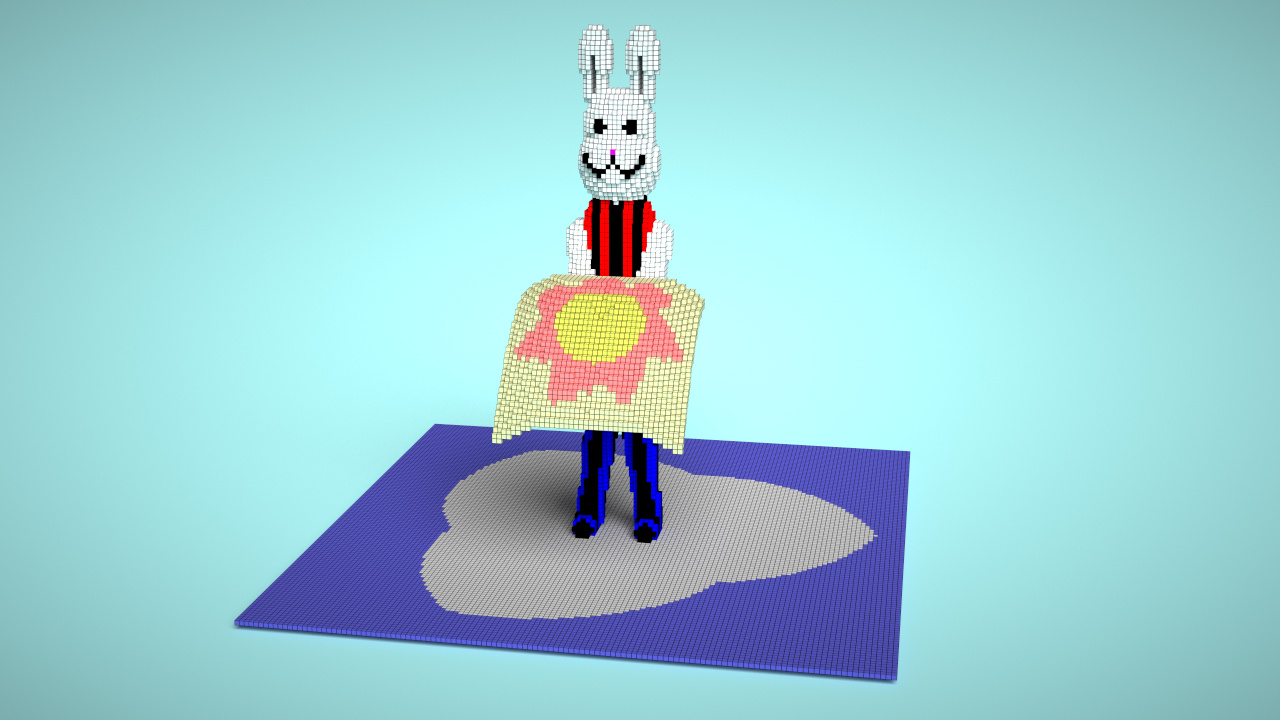
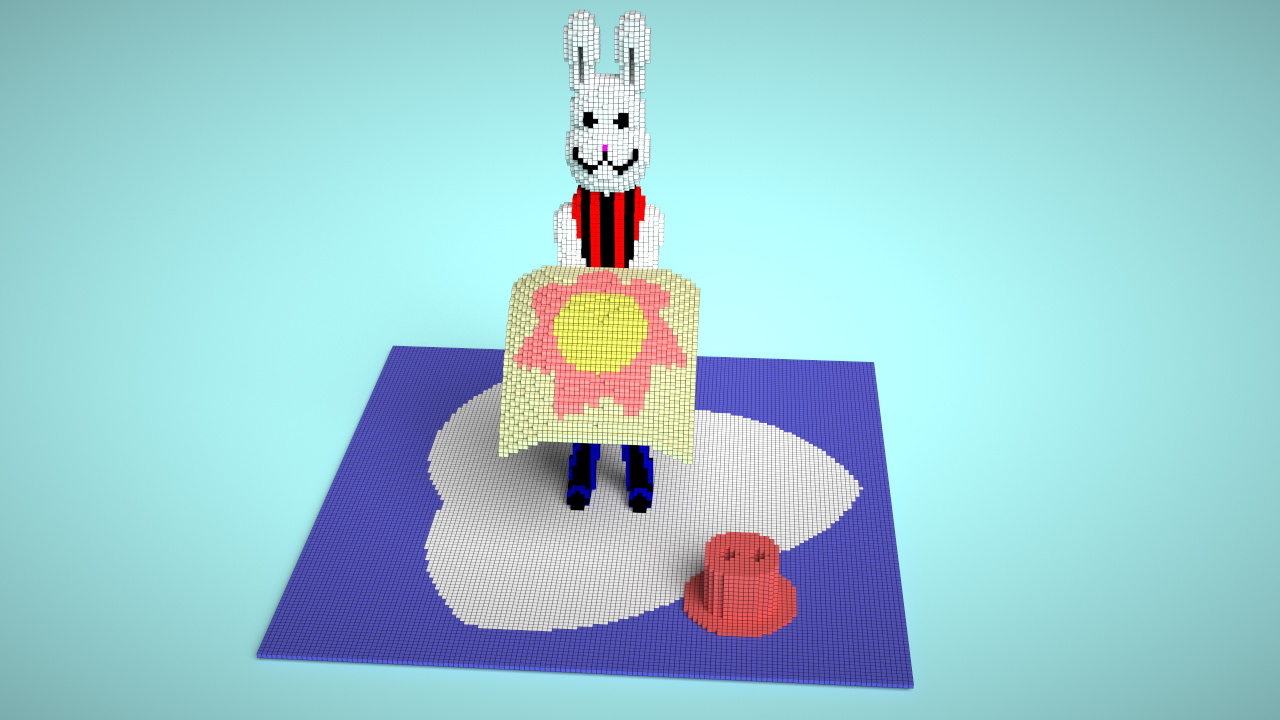
[ADD] add a hat with lovely hole
add a hat

Changed region(s): [[0.1875, 0.0, 0.7188, 0.9778]]

diff --git a/main.py b/main.py
@@ -16,29 +16,24 @@ def sdf_ellipsoid(p, r ):
     return ret 
 @ti.func
 def sdf_line(p, a, b, r ):
-    pa = p-a
-    ba = b-a
-    h = clamp( dot(pa,ba)/dot(ba,ba), 0.0, 1.0 )
-    return ( pa - ba*h ).norm()-r
-@ti.func
-def op_union(d1,d2):
-    return min(d1,d2)
+    h = clamp( dot(p-a,b-a)/dot(b-a,b-a), 0.0, 1.0 )
+    return ( p-a - (b-a)*h ).norm()-r
 @ti.func
 def op_minus(d1,d2):
     return max(d1,-d2)
 @ti.func
-def flower( uv, size, rpetals, npetals):
-    uv = vec2(ti.atan2(uv.x, uv.y), (uv).norm())        
-    uv.x +=  uv.y
-    m = (fract(uv.x / 3.1415926 / 2. * npetals) - 0.5) * rpetals
-    m = min(m, -m)
-    return  ti.math.smoothstep(size, size-0.01, uv.y + m)
+def sdf_cylinder(  p,  h,  r ):
+    d = abs(vec2(ti.sqrt(p.x*p.x+p.z*p.z),p.y)) - vec2(h,r)
+    return min(max(d.x,d.y),0.0) + max(d,0.0).norm()
+@ti.func
+def sd_flower( uv, size, rpetals, npetals):
+    uv = vec2(ti.atan2(uv.x, uv.y), uv.norm())        
+    m = (fract((uv.x+ uv.y) / 3.1415926 / 2. * npetals) - 0.5) * rpetals
+    return  ti.math.smoothstep(size, size-0.01, uv.y + min(m, -m))
 @ti.func
 def carpet(p, offset_x, offset_y, offset_z):
     t = abs(0.025* (p.x - offset_x)*(p.x - offset_x)+ 0.025 * (p.z - offset_z)*(p.z - offset_z)-offset_y+p.y)
-    if t > 1.0:
-        t = 10.0
-    else:
+    if t < 1.0:
         t = 0.0
     return t
 @ti.func
@@ -47,46 +42,52 @@ def sdf_rabit(p):
     d1 = sdf_ellipsoid(vec3(abs(p.x),p.y,p.z)-vec3(5,55,0), vec3(3,6,3))
     d2 = sdf_ellipsoid(vec3(abs(p.x),p.y,p.z)-vec3(5,49,0), vec3(2,5,2)) 
     d3 = sdf_ellipsoid(vec3(abs(p.x),p.y,p.z)-vec3(5,52,1), vec3(1,10,6)) 
-    d  = op_minus(op_union(d1,d2),d3)
+    d  = op_minus(min(d1,d2),d3)
     d1 = sdf_ellipsoid(vec3(abs(p.x),p.y,p.z)-vec3(3,41,3.5), vec3(2,2,2))
     if d1 < 0.0:
         color = vec3(0.0,0.0,0.0)
-        d  = op_union(d1,d)
+        d  = min(d1,d)
     d1 = sdf_ellipsoid(vec3(abs(p.x),p.y,p.z)-vec3(3,37,6.5),   vec3(4,7,1))
     d2 = sdf_ellipsoid(vec3(abs(p.x),p.y,p.z)-vec3(3,38.5,6.5), vec3(4,7,1))
     if op_minus(d1,d2) < 0.0:
         color = vec3(0.0,0.0,0.0)
-        d  = op_union(op_minus(d1,d2),d)
+        d  = min(op_minus(d1,d2),d)
     d1 = sdf_ellipsoid(vec3(abs(p.x),p.y,p.z)-vec3(0,36,5.5), vec3(1,1,2))
     if d1 < 0.0:
         color = vec3(1.0,0.0,1.0)
-        d  = op_union(d1,d)
-    d  = op_union(op_union(sdf_ellipsoid(p-vec3(0,41,0), vec3(7,7,5)),sdf_ellipsoid(p-vec3(0,33,0), vec3(8,9,7))),d)
+        d  = min(d1,d)
+    d  = min(min(sdf_ellipsoid(p-vec3(0,41,0), vec3(7,7,5)),sdf_ellipsoid(p-vec3(0,33,0), vec3(8,9,7))),d)
     d1 = sdf_ellipsoid(p-vec3(0,17,0), vec3(8, 12,5))
     d2 = sdf_ellipsoid(p-vec3(0, 8,0), vec3(10, 14,5))
     d3 = sdf_ellipsoid(p-vec3(0, 0,0), vec3(8,16,5))
-    if op_union(op_union(d1,d2),d3) < 0.0:
+    if min(min(d1,d2),d3) < 0.0:
         color = vec3(int(p.x/2)%2,0.0,0.0)
-        d  = op_union(op_union(op_union(d1,d2),d3),d)
-    d  = op_union(sdf_line(vec3(abs(p.x),p.y,p.z), vec3(8,17,0),  vec3(6,0,5), 3),d)
+        d  = min(min(min(d1,d2),d3),d)
+    d  = min(sdf_line(vec3(abs(p.x),p.y,p.z), vec3(8,17,0),  vec3(6,0,5), 3),d)
     d1 = sdf_line(vec3(abs(p.x),p.y,p.z), vec3(3,-14,0), vec3(5,-33,1), 3.5)
     d2 = sdf_line(vec3(abs(p.x),p.y,p.z), vec3(5,-33,1), vec3(7,-48,2), 3)
     d3 = sdf_ellipsoid((abs(p.x),p.y,p.z-2.0)-vec3(7,-48,2), vec3(3,3,6))
-    if op_union(op_union(d1,d2),d3) < 0.0:
-        color = vec3(0.0,0.0,int(p.z/2)%2)
-        d  = op_union(op_union(op_union(d1,d2),d3),d)
+    if min(min(d1,d2),d3) < 0.0:
+        color = vec3(0.0,0.0,int(p.z/2)%2*0.5)
+        d  = min(min(min(d1,d2),d3),d)
     if abs(p.x) < 20.0  and p.z > 6.0 and p.z < 36.0 and p.y<10.0 and p.y > -20.0:
-        d  = op_union(carpet(vec3(abs(p.x),p.y,p.z),5,10,4),d)
+        d  = min(carpet(vec3(abs(p.x),p.y,p.z),5,10,4),d)
         color = vec3(0.7,0.2,0.2)
         if sdf_ellipsoid(vec3(p.x/20.0, 1.0, (p.z-21.0) / 15.0), vec3(1.0,1.0,1.0)) < 0.1:
             color = vec3(0.5,0.5,0.1)
-        elif flower(vec2(p.x/40.0, (p.z-21.0) / 30.0),0.3,0.3,7.0) < 0.1:
+        elif sd_flower(vec2(p.x/40.0, (p.z-21.0) / 30.0),0.3,0.3,7.0) < 0.1:
             color = vec3(0.5,0.5,0.3)
     if  p.y == -50.0:
-        color = vec3(0.5,0.5,0.5)
-        if flower(vec2(p.x/128.0, p.z/128.0),0.3,0.3,3.0) < 0.1:
+        if sd_flower(vec2(p.x/128.0, p.z/128.0),0.3,0.3,3.0) < 0.1:
             color = vec3(0.1,0.1,0.5)  
         d = 0.0
+    d1 = sdf_ellipsoid(p-vec3(30,-49,40), vec3(12, 1,12))
+    d2 = sdf_cylinder(p-vec3(30, -43,40), 8, 6)
+    d3 = sdf_cylinder(p-vec3(33, -43,40), 2, 8)
+    d4 = sdf_cylinder(p-vec3(27, -43,40), 2, 8)
+    if op_minus(op_minus(min(d1,d2),d3),d4) < 0.0:
+        color = vec3(0.6,0.1,0.1)  
+        d = min(min(d1,d2),d3)
     return color, d
 @ti.kernel
 def initialize_voxels():
